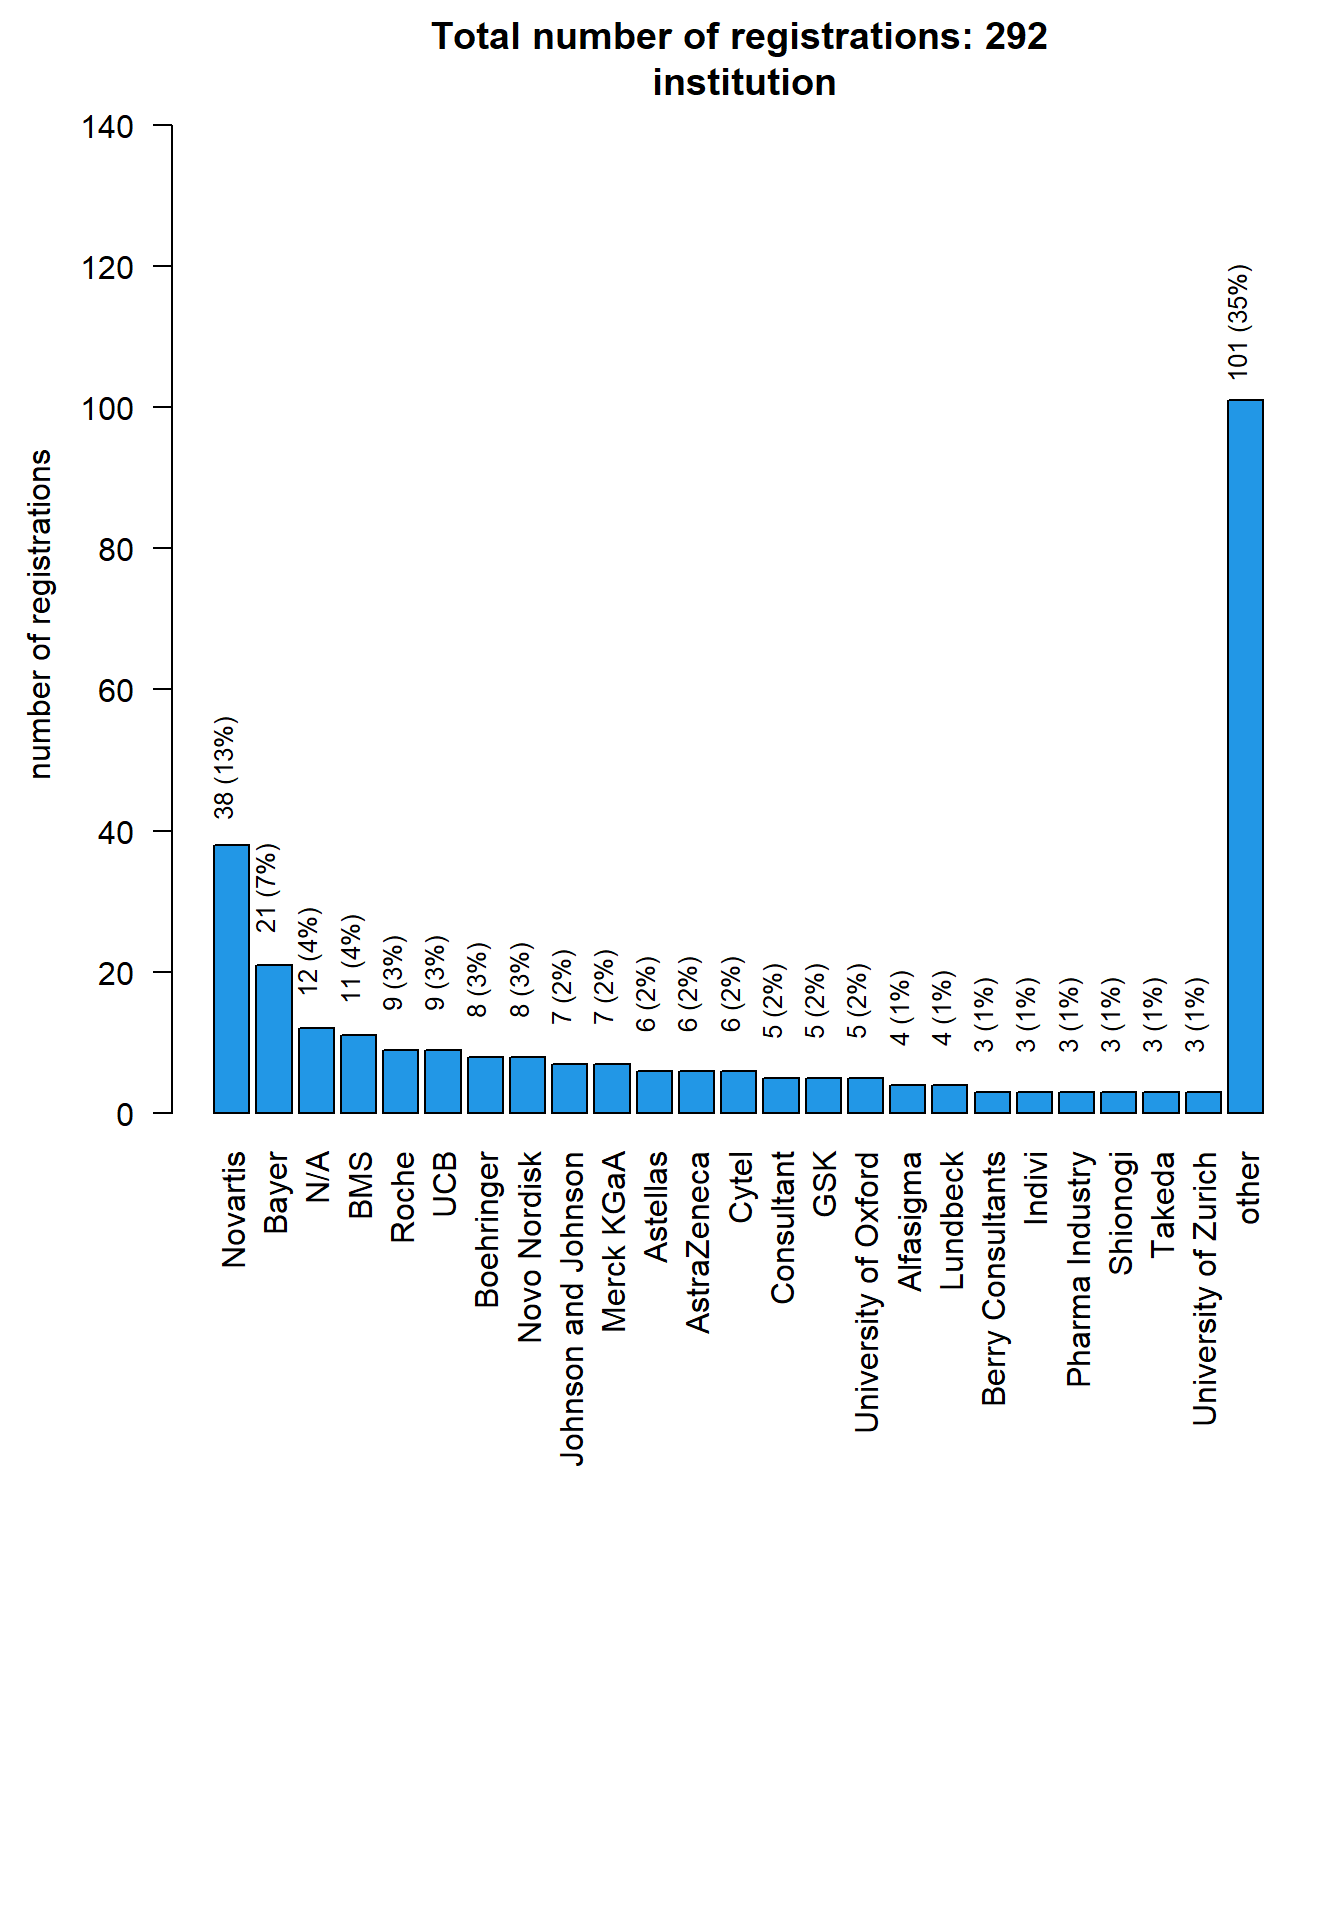
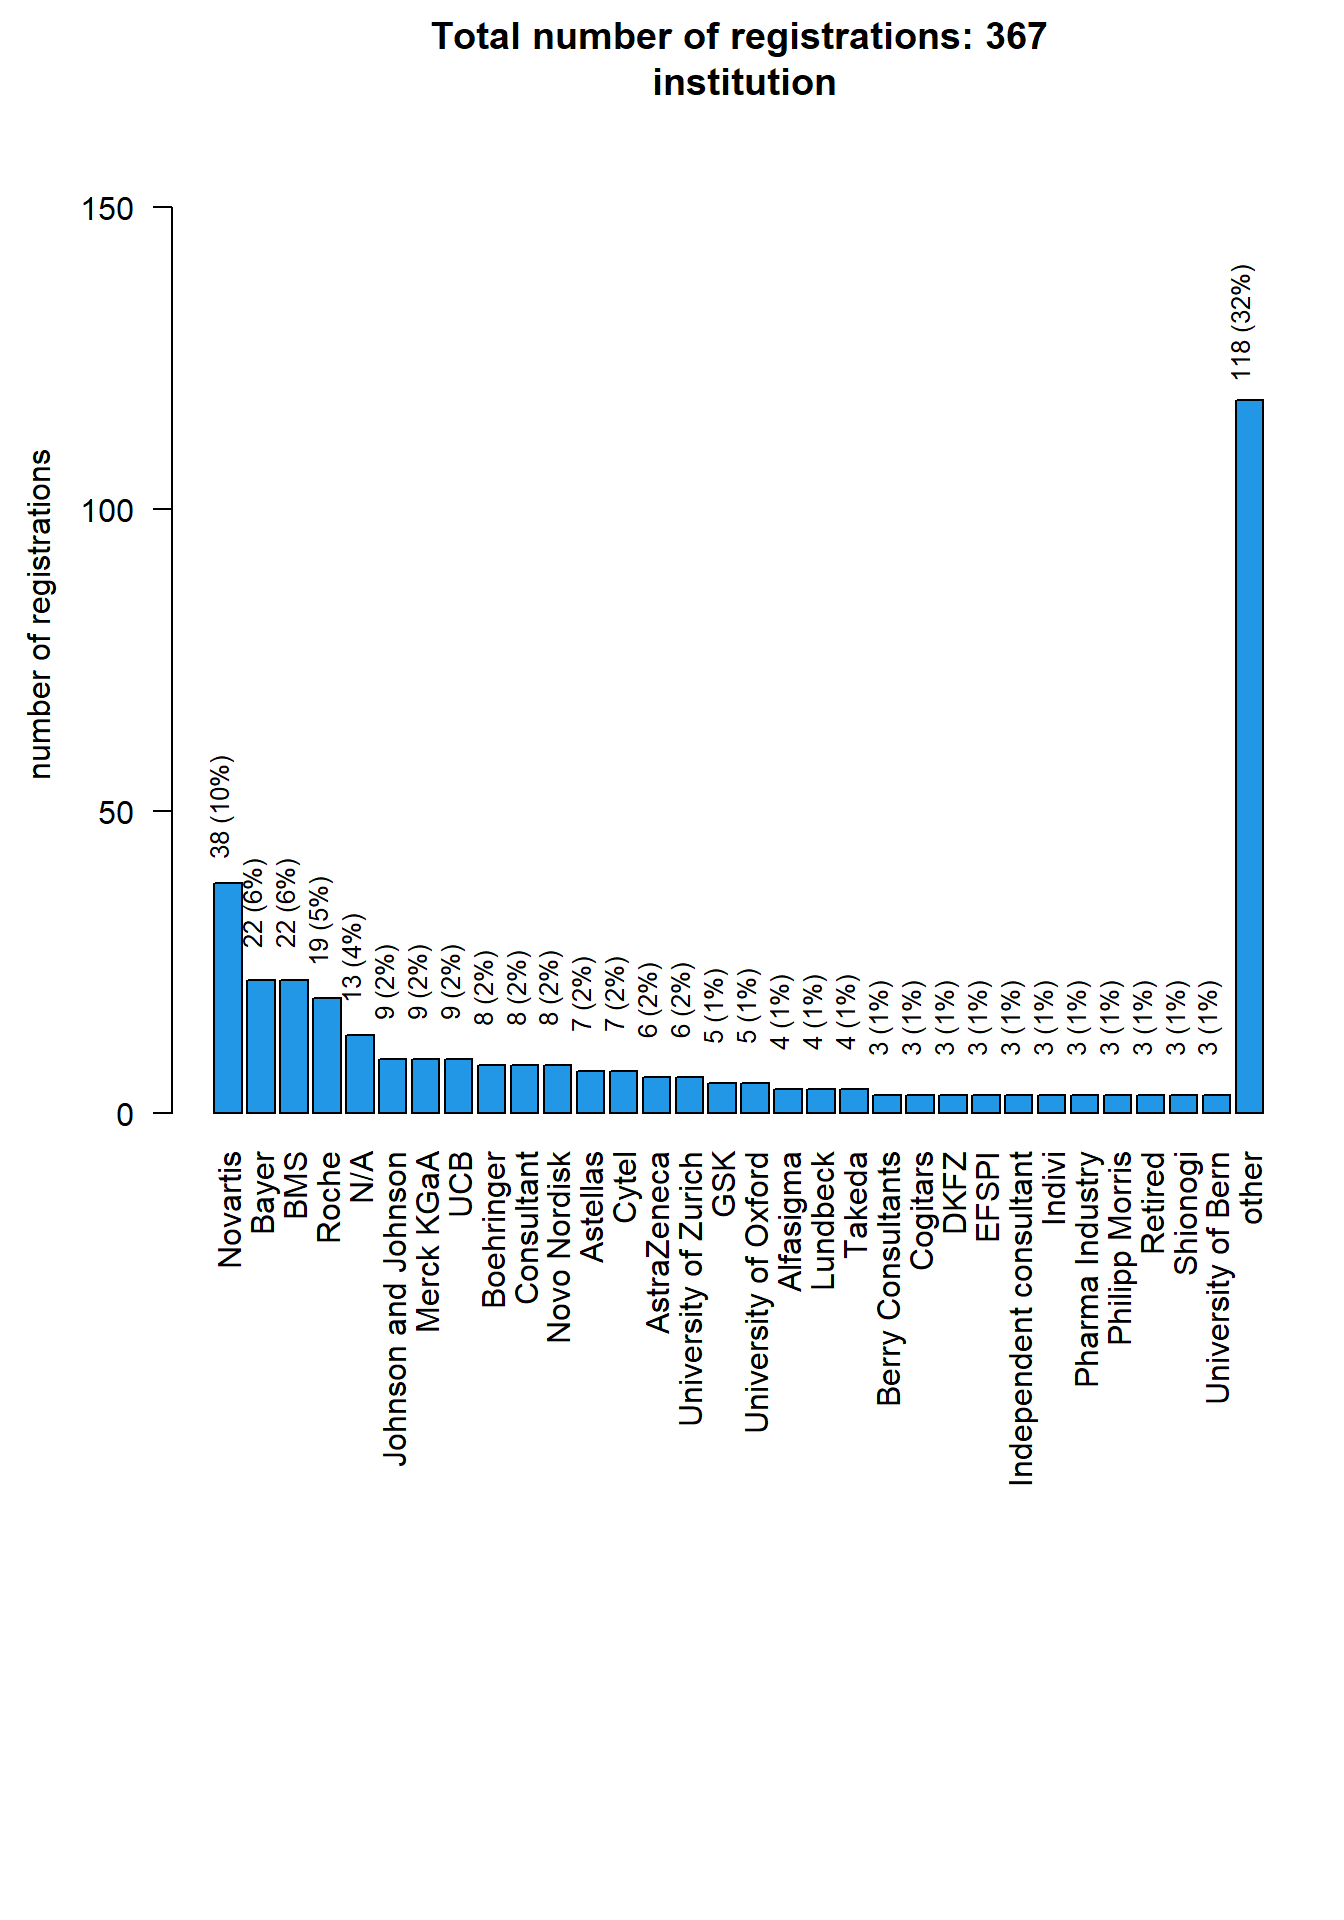
update

diff --git a/docs/talks/20250824/analysis_ISCB.html b/docs/talks/20250824/analysis_ISCB.html
@@ -7,7 +7,7 @@
 <meta name="viewport" content="width=device-width, initial-scale=1.0, user-scalable=yes">
 
 <meta name="author" content="Kaspar Rufibach">
-<meta name="dcterms.date" content="2026-11-18">
+<meta name="dcterms.date" content="2026-11-20">
 
 <title>ISCB46 in Basel: analysis of registrations – Basel Biometrics Society</title>
 <style>
@@ -210,7 +210,7 @@ ul.task-list li input[type="checkbox"] {
     <div>
     <div class="quarto-title-meta-heading">Published</div>
     <div class="quarto-title-meta-contents">
-      <p class="date">November 18, 2026</p>
+      <p class="date">November 20, 2026</p>
     </div>
   </div>
   
@@ -224,7 +224,7 @@ ul.task-list li input[type="checkbox"] {
 
 <section id="data-status" class="level1">
 <h1>Data status</h1>
-<p>Data as of 2026-11-18 at 18:31:06.</p>
+<p>Data as of 2026-11-20 at 15:28:42.</p>
 <!-- # Registrations by institution -->
 <!-- ```{r, echo = FALSE, fig.cap = "", fig.align = "center", fig.width = 7, fig.height = 10} -->
 <!-- t2 <- with(reg4, table(inst2)) -->

diff --git a/docs/talks/20250319/analysis_innovation.html b/docs/talks/20250319/analysis_innovation.html
@@ -7,7 +7,7 @@
 <meta name="viewport" content="width=device-width, initial-scale=1.0, user-scalable=yes">
 
 <meta name="author" content="Kaspar Rufibach">
-<meta name="dcterms.date" content="2026-11-18">
+<meta name="dcterms.date" content="2026-11-20">
 
 <title>BBS seminar 19th March 2025: analysis of registrations – Basel Biometrics Society</title>
 <style>
@@ -215,7 +215,7 @@ ul.task-list li input[type="checkbox"] {
     <div>
     <div class="quarto-title-meta-heading">Published</div>
     <div class="quarto-title-meta-contents">
-      <p class="date">November 18, 2026</p>
+      <p class="date">November 20, 2026</p>
     </div>
   </div>
   
@@ -229,7 +229,7 @@ ul.task-list li input[type="checkbox"] {
 
 <section id="data-status" class="level1">
 <h1>Data status</h1>
-<p>Data as of 2026-11-18 at 18:30:38.</p>
+<p>Data as of 2026-11-20 at 15:28:28.</p>
 </section>
 <section id="registrations-by-type-of-institution" class="level1">
 <h1>Registrations by type of institution</h1>

diff --git a/docs/talks/20250319/analysis_innovation_questions.html b/docs/talks/20250319/analysis_innovation_questions.html
@@ -7,7 +7,7 @@
 <meta name="viewport" content="width=device-width, initial-scale=1.0, user-scalable=yes">
 
 <meta name="author" content="Kaspar Rufibach">
-<meta name="dcterms.date" content="2026-11-18">
+<meta name="dcterms.date" content="2026-11-20">
 
 <title>BBS seminar 19th March 2025: analysis of questions – Basel Biometrics Society</title>
 <style>
@@ -209,7 +209,7 @@ ul.task-list li input[type="checkbox"] {
     <div>
     <div class="quarto-title-meta-heading">Published</div>
     <div class="quarto-title-meta-contents">
-      <p class="date">November 18, 2026</p>
+      <p class="date">November 20, 2026</p>
     </div>
   </div>
   
@@ -223,7 +223,7 @@ ul.task-list li input[type="checkbox"] {
 
 <section id="data-status" class="level1">
 <h1>Data status</h1>
-<p>Data as of 2026-11-18 at 18:30:54.</p>
+<p>Data as of 2026-11-20 at 15:28:37.</p>
 </section>
 <section id="analysis-of-registrations" class="level1">
 <h1>Analysis of registrations</h1>

diff --git a/docs/talks/20191101/20191101_summary.html b/docs/talks/20191101/20191101_summary.html
@@ -7,7 +7,7 @@
 <meta name="viewport" content="width=device-width, initial-scale=1.0, user-scalable=yes">
 
 <meta name="author" content="Laurent Essioux, Dominik Heinzmann, Kaspar Rufibach, Marcel Wolbers">
-<meta name="dcterms.date" content="2026-11-18">
+<meta name="dcterms.date" content="2026-11-20">
 
 <title>BBS seminar 1st November 2019: Predictive modelling, machine learning, and causality – Basel Biometrics Society</title>
 <style>
@@ -248,7 +248,7 @@ window.Quarto = {
     <div>
     <div class="quarto-title-meta-heading">Published</div>
     <div class="quarto-title-meta-contents">
-      <p class="date">November 18, 2026</p>
+      <p class="date">November 20, 2026</p>
     </div>
   </div>
   

diff --git a/docs/upcoming/20261210/20261210_BBS_EFSPI_Bayes.html b/docs/upcoming/20261210/20261210_BBS_EFSPI_Bayes.html
@@ -228,7 +228,7 @@ ul.task-list li input[type="checkbox"] {
 
 <section id="data-status" class="level1">
 <h1>Data status</h1>
-<p>Data as of 2026-11-18 at 18:31:33.</p>
+<p>Data as of 2026-11-20 at 15:28:51.</p>
 </section>
 <section id="registrations" class="level1">
 <h1>Registrations</h1>
@@ -323,10 +323,6 @@ ul.task-list li input[type="checkbox"] {
 <tr class="odd">
 <td style="text-align: left;">Kert</td>
 <td style="text-align: left;">Viele</td>
-</tr>
-<tr class="even">
-<td style="text-align: left;">Anna</td>
-<td style="text-align: left;">Wiksten</td>
 </tr>
 </tbody>
 </table>
